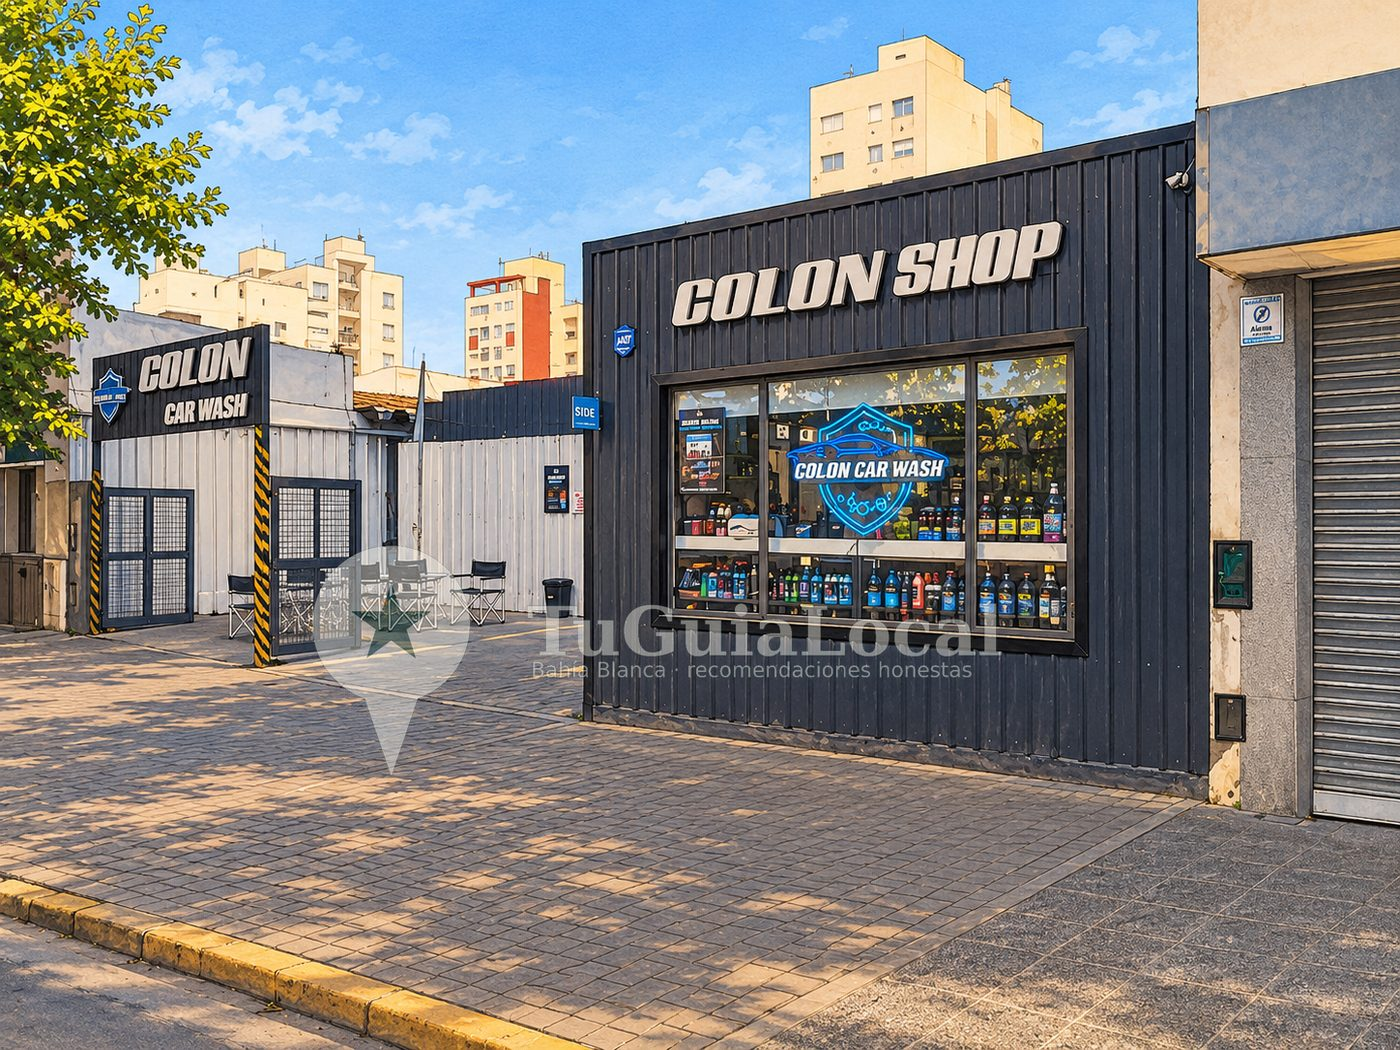
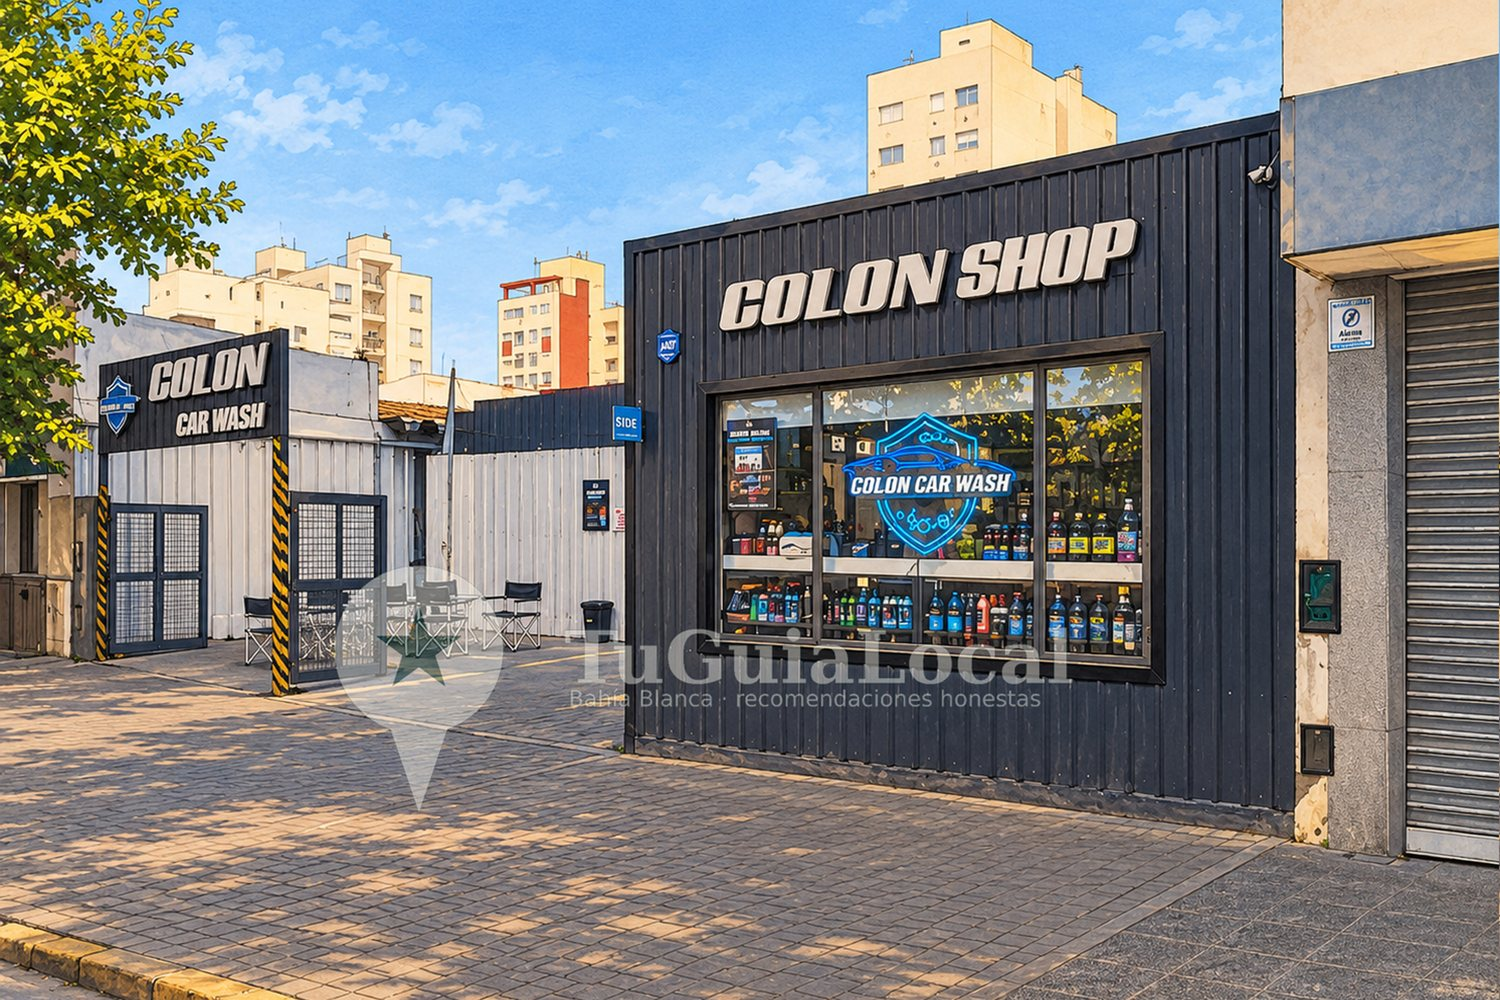
Add files via upload

diff --git a/index.html b/index.html
@@ -94,6 +94,8 @@
   .post-thumb { height: 200px; display: flex; align-items: center; justify-content: center; font-size: 4rem; }
   .post-thumb { overflow: hidden; }
   .post-thumb img { width: 100%; height: 100%; object-fit: cover; display: block; }
+  .post-thumb.foto { height: auto; aspect-ratio: 3 / 2; display: block; }
+  .post-thumb.foto img { width: 100%; height: 100%; object-fit: cover; }
   .post-thumb.bar { background: linear-gradient(135deg, #FEF3C7, #FDE68A); }
   .post-thumb.optica { background: linear-gradient(135deg, #DBEAFE, #BFDBFE); }
   .post-thumb.pronto { background: linear-gradient(135deg, #F3F4F6, #E5E7EB); }
@@ -211,7 +213,7 @@
     <div class="posts-grid">
 
       <a href="prisma.html" class="post-card">
-        <div class="post-thumb"><img src="prisma-portada.jpg" alt="Patio de Cervecería Prisma, Bahía Blanca" loading="lazy"></div>
+        <div class="post-thumb foto"><img src="prisma-portada.jpg" alt="Patio de Cervecería Prisma, Bahía Blanca" loading="lazy"></div>
         <div class="post-body">
           <span class="post-tag">Cervecería · Bahía Blanca</span>
           <h3>Cervecería Prisma: el lugar donde el tiempo pasa distinto</h3>
@@ -231,7 +233,7 @@
       </a>
 
       <a href="farmacia-guzman.html" class="post-card">
-        <div class="post-thumb"><img src="guzman-portada.jpg" alt="Fachada de Farmacia Guzmán, Bahía Blanca" loading="lazy"></div>
+        <div class="post-thumb foto"><img src="guzman-portada.jpg" alt="Fachada de Farmacia Guzmán, Bahía Blanca" loading="lazy"></div>
         <div class="post-body">
           <span class="post-tag">Farmacia · Bahía Blanca</span>
           <h3>Farmacia Guzmán: donde ir a buscar medicamentos se convierte en un placer</h3>
@@ -251,7 +253,7 @@
       </a>
 
       <a href="mi-carniceria.html" class="post-card">
-        <div class="post-thumb"><img src="carniceria-portada.jpg" alt="Fachada de Mi Carnicería, Bahía Blanca" loading="lazy"></div>
+        <div class="post-thumb foto"><img src="carniceria-portada.jpg" alt="Fachada de Mi Carnicería, Bahía Blanca" loading="lazy"></div>
         <div class="post-body">
           <span class="post-tag">Carnicería · Bahía Blanca</span>
           <h3>Mi Carnicería: el lugar que te hace sentir en casa desde el primer día</h3>
@@ -281,7 +283,7 @@
       </a>
 
       <a href="pieres-electricidad.html" class="post-card">
-        <div class="post-thumb"><img src="pieres-portada.jpg" alt="Fachada de Pieres Electricidad, Bahía Blanca" loading="lazy"></div>
+        <div class="post-thumb foto"><img src="pieres-portada.jpg" alt="Fachada de Pieres Electricidad, Bahía Blanca" loading="lazy"></div>
         <div class="post-body">
           <span class="post-tag">Electricidad · Bahía Blanca</span>
           <h3>Pieres Electricidad: antes de dar vueltas, primero andá acá</h3>
@@ -291,7 +293,7 @@
       </a>
 
       <a href="el-pampa-pet-shop.html" class="post-card">
-        <div class="post-thumb"><img src="pampa-portada.jpg" alt="Fachada de El Pampa Pet Shop, La Plata" loading="lazy"></div>
+        <div class="post-thumb foto"><img src="pampa-portada.jpg" alt="Fachada de El Pampa Pet Shop, La Plata" loading="lazy"></div>
         <div class="post-body">
           <span class="post-tag">Pet Shop · La Plata</span>
           <h3>El Pampa Pet Shop: cuando atienden con el corazón, se nota</h3>
@@ -301,7 +303,7 @@
       </a>
 
       <a href="colon-car-wash.html" class="post-card">
-        <div class="post-thumb"><img src="colon-portada.jpg" alt="Entrada de Colón Car Wash, Bahía Blanca" loading="lazy"></div>
+        <div class="post-thumb foto"><img src="colon-portada.jpg" alt="Entrada de Colón Car Wash, Bahía Blanca" loading="lazy"></div>
         <div class="post-body">
           <span class="post-tag">Lavadero de autos · Bahía Blanca</span>
           <h3>Colón Car Wash: lavá tu auto a tu manera, sin apuro y sin turno</h3>
